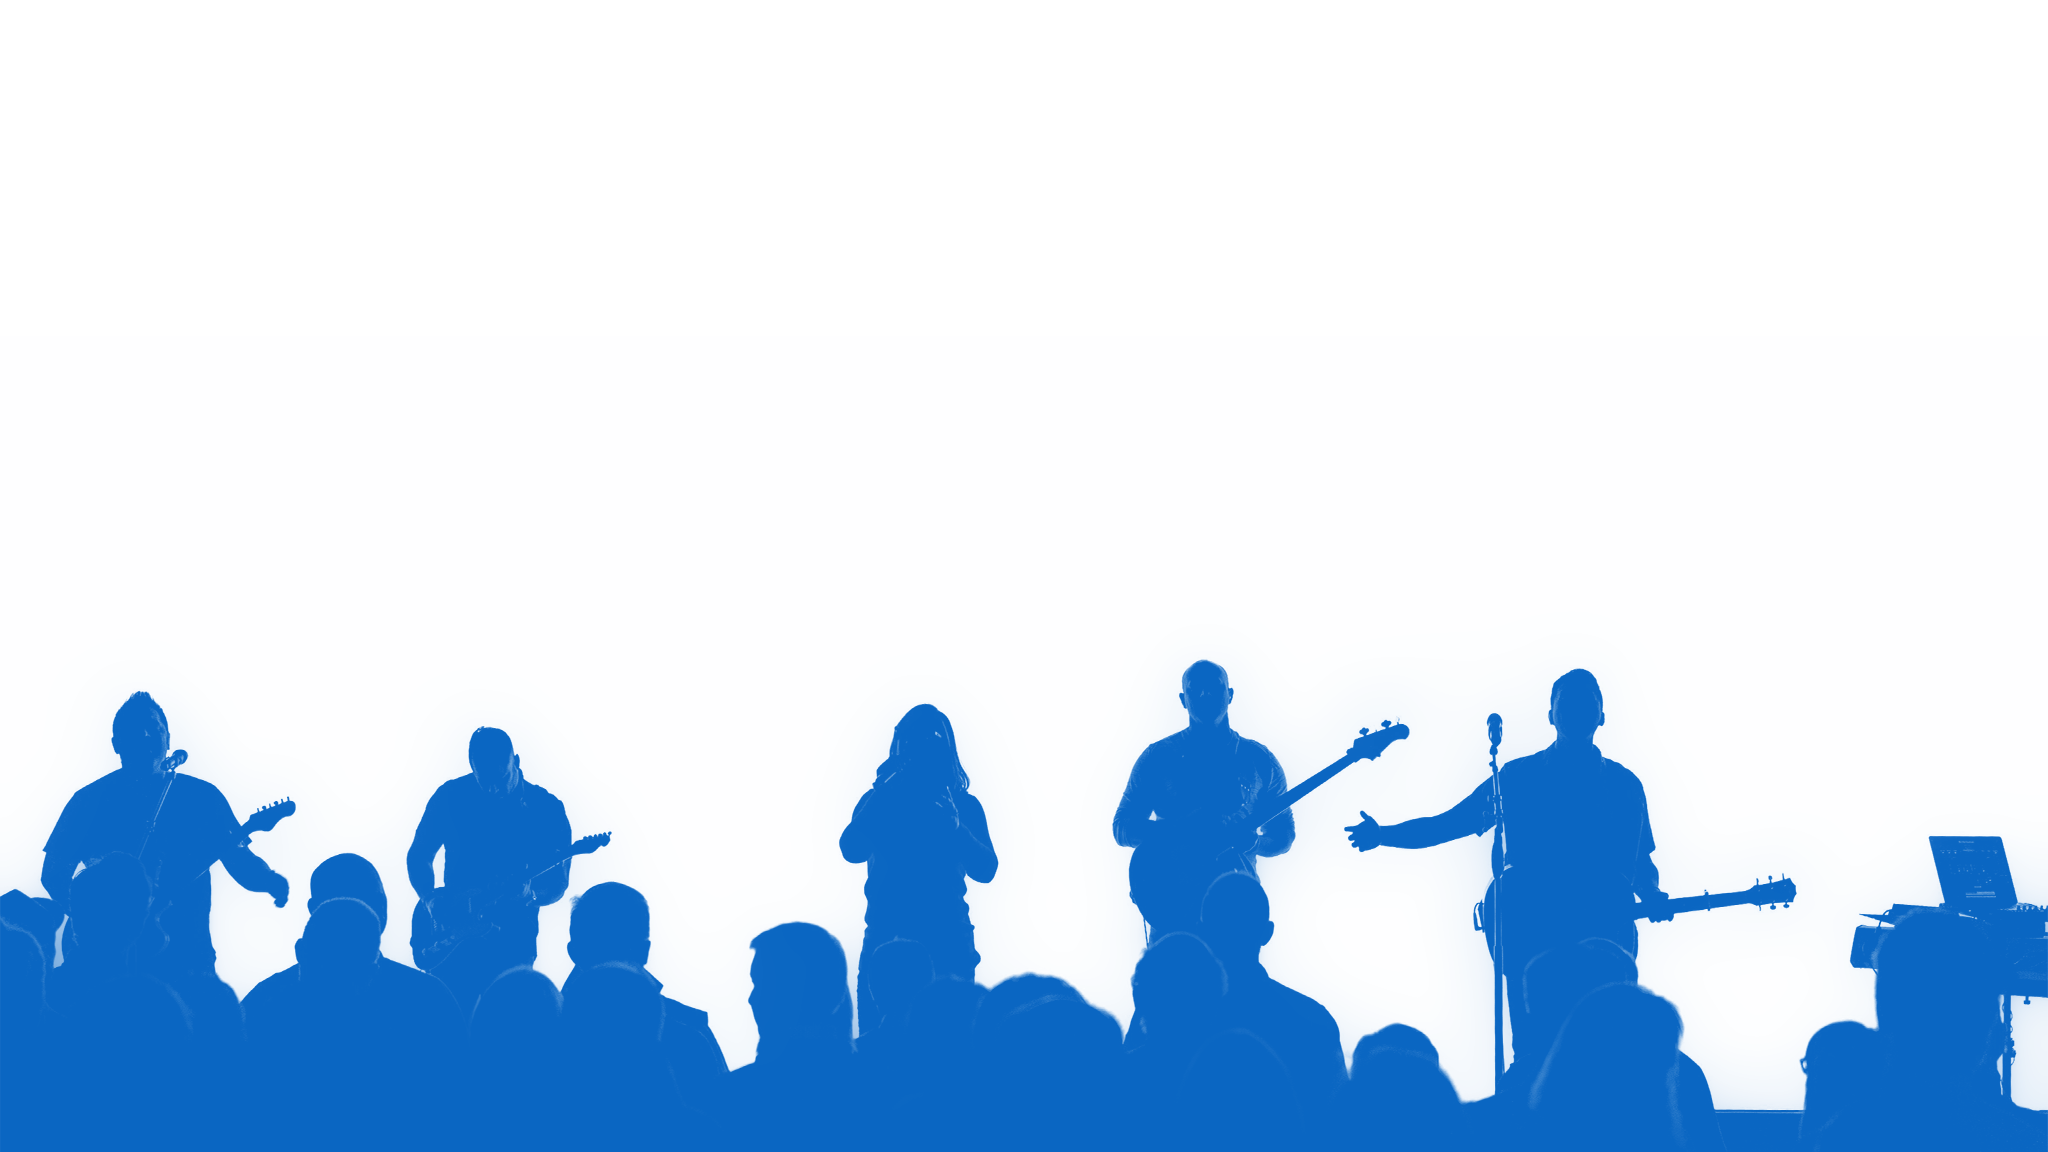
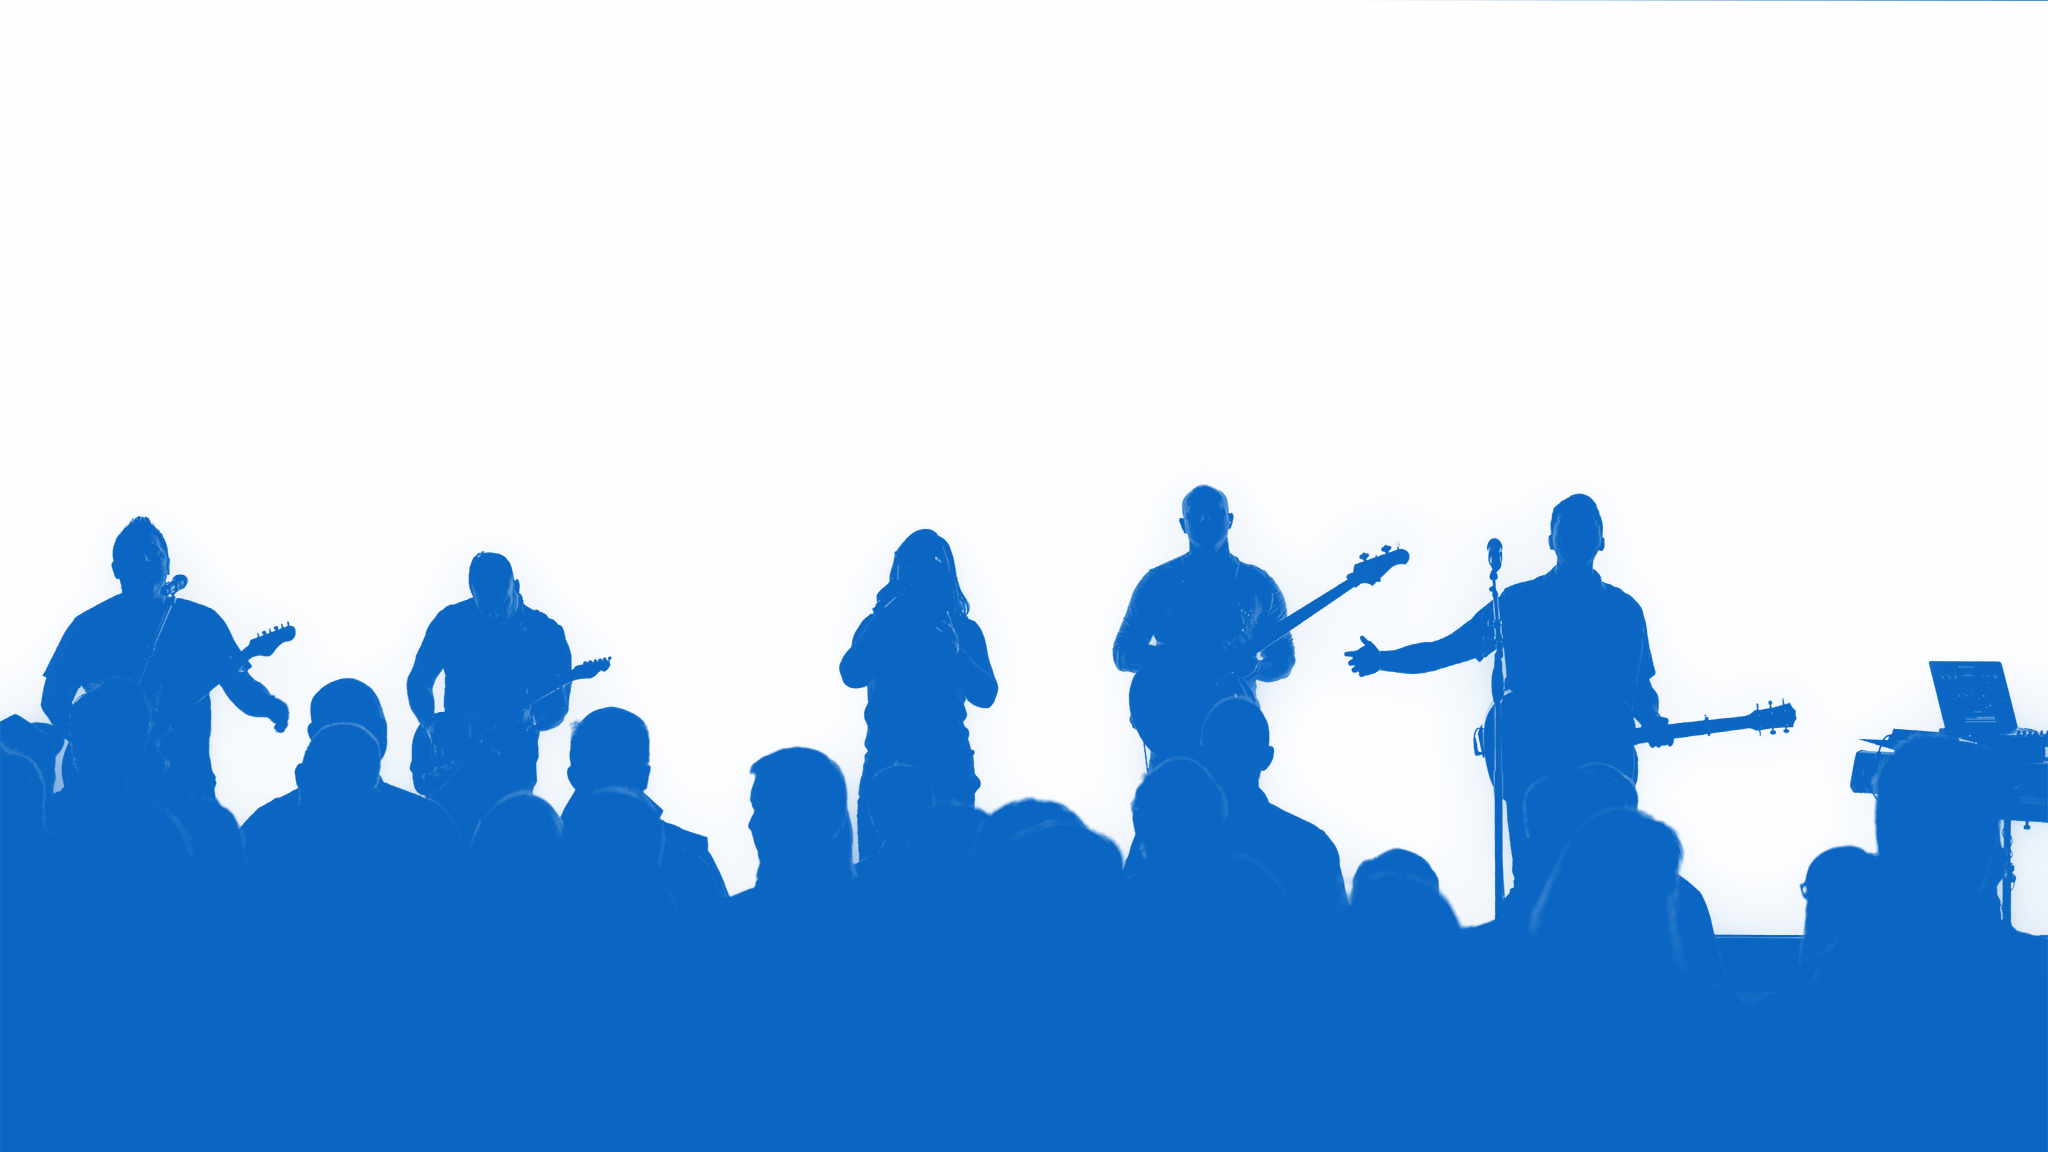
Update hero band image and adjust opacity to 0.4
Switched to band photo with more blue at bottom. Reduced opacity to 0.4
and extended image layer to full section so band heads show through
behind text when browser is resized shorter.

diff --git a/src/app/features/home/intro-one/intro-one.component.scss b/src/app/features/home/intro-one/intro-one.component.scss
@@ -9,32 +9,20 @@
   &::after {
     content: '';
     position: absolute;
-    top: 20%;
+    top: 0;
     left: 0;
     right: 0;
     bottom: 0;
     background: url('/assets/images/hero-band.png') no-repeat bottom center;
     background-size: 110% auto;
-    opacity: 0.6;
-    pointer-events: none;
-  }
-
-  &::before {
-    content: '';
-    position: absolute;
-    top: 20%;
-    left: 0;
-    right: 0;
-    bottom: 0;
-    background: linear-gradient(to bottom, #ffffff 0%, transparent 15%);
-    z-index: 1;
+    opacity: 0.4;
     pointer-events: none;
   }
 }
 
 .container {
   position: relative;
-  z-index: 2;
+  z-index: 1;
 }
 
 .hero-content {
